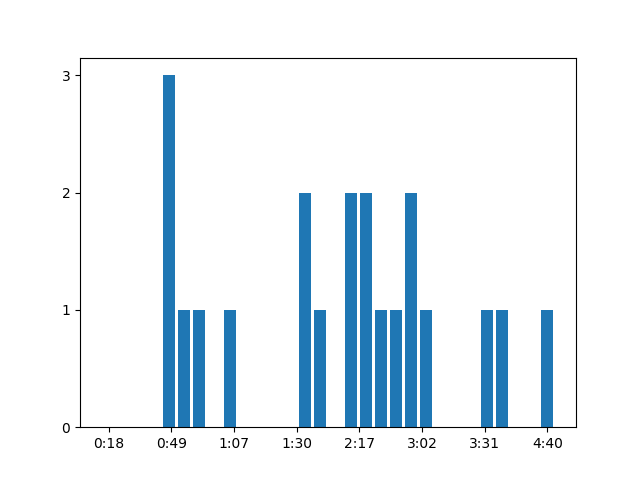
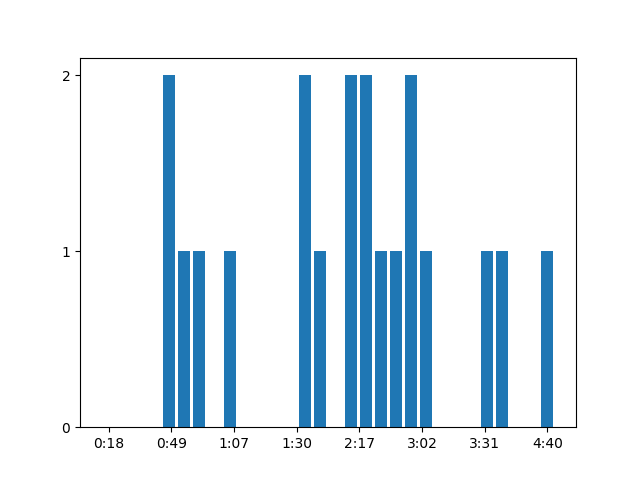
dont count stuttered/retraced words in visualization

diff --git a/utils/time_distribution_graph.py b/utils/time_distribution_graph.py
@@ -24,11 +24,16 @@ def count_target_word_occurences(line:str, target_word:str, target_lexical_class
 
     # now actually count occurances
     occurances = 0
+    retrace = False # a flag for if the word was retraced/repeated
     for token in tokens:
         word = token.split(".")[0]
         lexical_class = token.split(".")[1]
-        if word == target_word and lexical_class in target_lexical_classes:
+        if word == target_word and lexical_class in target_lexical_classes and retrace is False:
             occurances += 1
+        elif word == "[/]":
+            retrace = True
+        else:
+            retrace = False
     return occurances
 
 def convert_milliseconds_to_seconds(timestamp: str):
